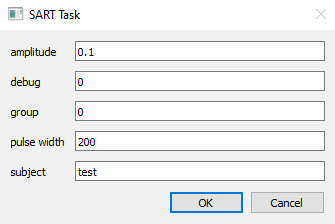
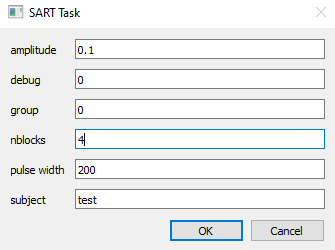
updated SART task and info

diff --git a/Code/Python/SART_Python/SART_taVNS.py b/Code/Python/SART_Python/SART_taVNS.py
@@ -131,7 +131,8 @@ expInfo = {
     'subject':'test',
     'amplitude':0.1,
     'pulse width':200,
-    'debug': 0
+    'debug': 0,
+    'nblocks': 4
 }
 dlg = gui.DlgFromDict(expInfo, title='SART Task', fixed=['dateStr'])
 if dlg.OK:
